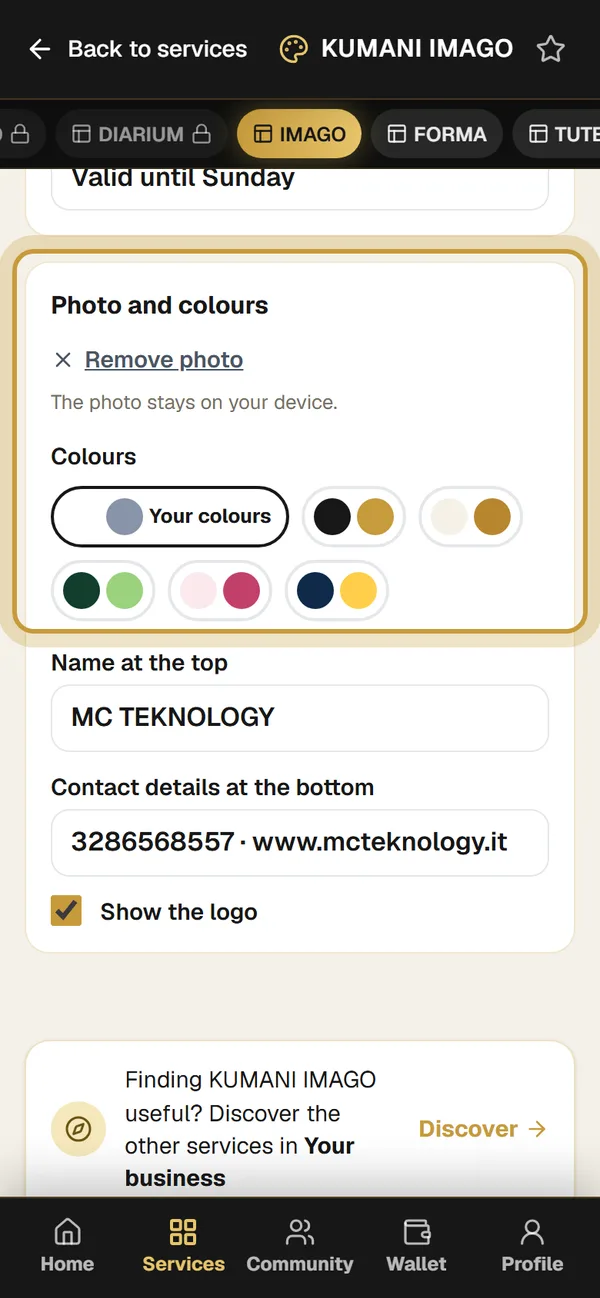
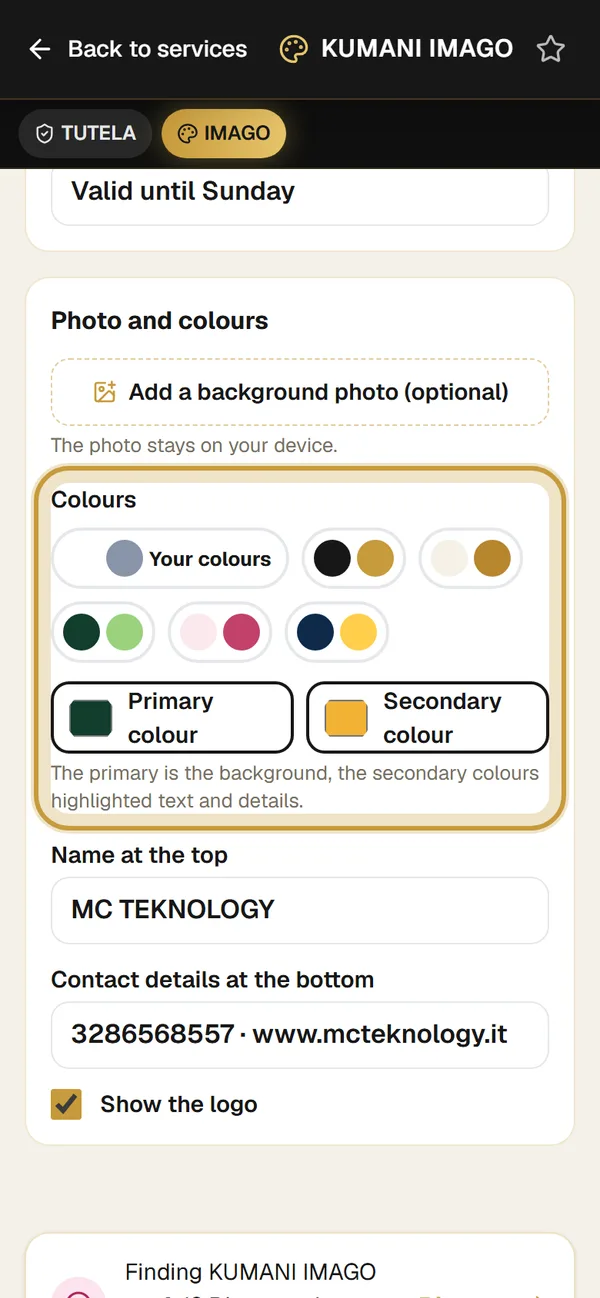
fix: servizi accesi o spenti dall'Admin visibili ovunque entro un minuto; guida di KUMANI Shop
- Impostazioni dei servizi (barre dei servizi uniti, catalogo) in memoria al massimo un minuto: sul sito
  pubblicato lo svuotamento a ogni cambio non arrivava e TUTELA mostrava LUMEN spento con il lucchetto
- Nuova guida «KUMANI Shop» (5 passi, testi in 7 lingue, schermate it ed en sul negozio di prova)
- Guida IMAGO: colore primario e secondario nel passo 3, schermata rifatta

diff --git a/src/lib/freeTools.ts b/src/lib/freeTools.ts
@@ -7,7 +7,7 @@ import { getSessionIsAdmin, getSessionUser } from '@/lib/session'
 // Servizi gratuiti (piano richiesto "free", deciso dall'Admin in
 // marketplace_settings): vengono mostrati per primi in ogni categoria.
 // Letto con la chiave di servizio (le pagine pubbliche non hanno sessione)
-// e tenuto in memoria un'ora (svuotata quando l'Admin cambia un piano).
+// e tenuto in memoria un minuto (svuotata anche quando l'Admin cambia un piano).
 export const TOOL_PLANS_CACHE_TAG = 'tool-plans'
 export type ToolPlans = Record<string, string>
 // preview: spenti per gli iscritti ma aperti allo Staff («Solo Staff»)
@@ -27,7 +27,9 @@ const fetchToolPlans = unstable_cache(
     }
   },
   ['tool-settings-preview'],
-  { revalidate: 3600, tags: [TOOL_PLANS_CACHE_TAG] }
+  // Un minuto al massimo: sul sito pubblicato lo svuotamento a ogni cambio
+  // dall'Admin non sempre arriva, e un servizio spento restava visibile per un'ora
+  { revalidate: 60, tags: [TOOL_PLANS_CACHE_TAG] }
 )
 
 // Nomi dei servizi gratuiti tra quelli indicati. Stessa regola di

diff --git a/src/lib/guides/structure.ts b/src/lib/guides/structure.ts
@@ -49,6 +49,7 @@ export const GUIDE_STRUCTURE: GuideStructure[] = [
   { slug: 'hopla', category: 'organize', minutes: 2, steps: 5, href: '/marketplace/hopla' },
   { slug: 'firma-pdf', category: 'organize', minutes: 2, steps: 5, href: '/marketplace/firma-pdf' },
   { slug: 'menu', category: 'pro', minutes: 3, steps: 4, href: '/marketplace/menu' },
+  { slug: 'shop', category: 'pro', minutes: 4, steps: 5, href: '/marketplace/shop' },
   { slug: 'landing-page', category: 'pro', minutes: 4, steps: 5, href: '/marketplace/landing-page' },
   { slug: 'fidelity', category: 'pro', minutes: 3, steps: 5, href: '/marketplace/fidelity' },
   { slug: 'preventivi', category: 'pro', minutes: 3, steps: 5, href: '/marketplace/preventivi' },

diff --git a/src/lib/catalog-server.ts b/src/lib/catalog-server.ts
@@ -1,4 +1,5 @@
 import { unstable_cache } from 'next/cache'
+import { TOOL_PLANS_CACHE_TAG } from '@/lib/freeTools'
 import { getMessages, getTranslations } from 'next-intl/server'
 import { createClient } from '@supabase/supabase-js'
 import { collapseByHub, HUB_ICON_NAME, HUB_PUBLIC_HREF, HUB_REPRESENTATIVE, hubTabKey, TOOL_HUB } from '@/lib/serviceHubs'
@@ -44,7 +45,8 @@ const fetchSettings = unstable_cache(
     return (data ?? []) as Setting[]
   },
   ['catalog-settings'],
-  { revalidate: 600 }
+  // Come le impostazioni dei servizi (lib/freeTools): un minuto, svuotata dall'Admin
+  { revalidate: 60, tags: [TOOL_PLANS_CACHE_TAG] }
 )
 
 // Sezioni della Community (non sono nell'elenco dei servizi del Marketplace)

diff --git a/src/lib/guides/toolGuides.ts b/src/lib/guides/toolGuides.ts
@@ -33,6 +33,7 @@ export const TOOL_GUIDES: { path: string; slug: GuideSlug }[] = [
   { path: '/marketplace/spendly', slug: 'spendly' },
   { path: '/marketplace/fincheck', slug: 'fincheck' },
   { path: '/marketplace/menu', slug: 'menu' },
+  { path: '/marketplace/shop', slug: 'shop' },
   { path: '/marketplace/landing-page', slug: 'landing-page' },
   { path: '/marketplace/fidelity', slug: 'fidelity' },
   { path: '/marketplace/preventivi', slug: 'preventivi' },

diff --git a/src/lib/guides/types.ts b/src/lib/guides/types.ts
@@ -40,6 +40,7 @@ export type GuideSlug =
   | 'fincheck'
   // Servizi Pro
   | 'menu'
+  | 'shop'
   | 'landing-page'
   | 'fidelity'
   | 'preventivi'
